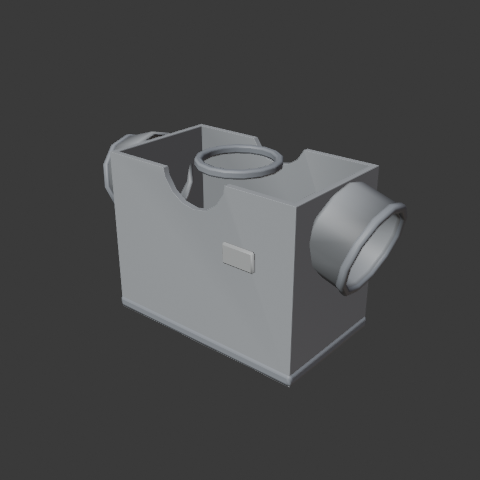
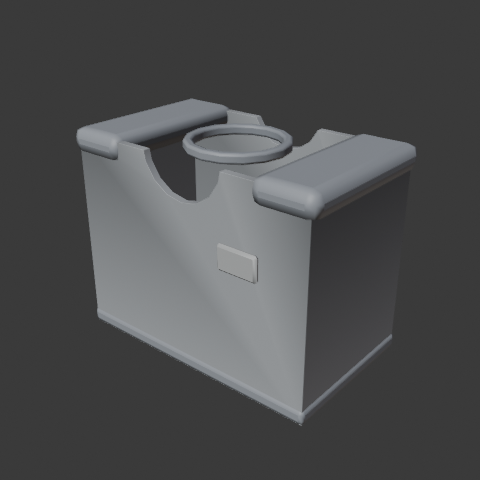
vault backup: 2026-10-28 07:11:22

diff --git a/Games/SpeedArc/blender/locker_kit.py b/Games/SpeedArc/blender/locker_kit.py
@@ -85,15 +85,9 @@ def tee():
         K.cutter_cyl(0.32, 0.7, (0, d / 2, h + 0.12), rot=(math.radians(90), 0, 0), verts=16),
     ])
     parts = [body]
-    # short sleeves: open tubes angled down off the shoulders
-    for s in (-1, 1):
-        sl = K.cyl("sleeve", 0.42, 0.42, (s * (w / 2 + 0.14), 0, h - 0.42), CLOTH, verts=12, bev=0.04,
-                   rot=(0, math.radians(90 + s * 18), 0), cutters=[
-                       K.cutter_cyl(0.36, 0.6, (s * (w / 2 + 0.14), 0, h - 0.42), rot=(0, math.radians(90 + s * 18), 0), verts=12)])
-        parts.append(sl)
-        parts.append(K.cyl("cuff", 0.44, 0.07, (s * (w / 2 + 0.33), 0, h - 0.48), SEAM, verts=12, bev=0.02,
-                           rot=(0, math.radians(90 + s * 18), 0), cutters=[
-                               K.cutter_cyl(0.37, 0.3, (s * (w / 2 + 0.33), 0, h - 0.48), rot=(0, math.radians(90 + s * 18), 0), verts=12)]))
+    # shoulder caps instead of sleeves (a rigid sleeve would stick out while the arms swing)
+    for sx in (-1, 1):
+        parts.append(K.box("cap", (0.5, d + 0.06, 0.2), (sx * (w / 2 - 0.2), 0, h - 0.06), SEAM, bev=0.08, seg=2))
     # crew collar ring
     parts.append(K.cyl("collar", 0.4, 0.08, (0, -0.02, h - 0.02), SEAM, verts=16, bev=0.02, cutters=[
         K.cutter_cyl(0.33, 0.3, (0, -0.02, h - 0.02), verts=16)]))
@@ -111,10 +105,8 @@ def zip_top():
         K.cutter_box((w - 0.12, d - 0.12, h + 1), (0, 0, h / 2)),
     ])
     parts = [body]
-    for s in (-1, 1):
-        parts.append(K.cyl("sleeve", 0.44, 0.46, (s * (w / 2 + 0.16), 0, h - 0.44), CLOTH, verts=16, bev=0.04,
-                           rot=(0, math.radians(90 + s * 14), 0), cutters=[
-                               K.cutter_cyl(0.38, 0.7, (s * (w / 2 + 0.16), 0, h - 0.44), rot=(0, math.radians(90 + s * 14), 0), verts=16)]))
+    for sx in (-1, 1):
+        parts.append(K.box("cap", (0.52, d + 0.06, 0.22), (sx * (w / 2 - 0.21), 0, h - 0.07), SEAM, bev=0.08, seg=2))
     # stand-up collar, a zip down the middle with a pull, two pocket seams, a ribbed hem
     parts.append(K.cyl("collar", 0.46, 0.26, (0, 0, h + 0.08), SEAM, verts=24, bev=0.03, r2=0.42, cutters=[
         K.cutter_cyl(0.38, 0.6, (0, 0, h + 0.08), verts=24)]))

diff --git a/SPEED ARC/Progress/2026-10-28 SPEED ARC Progress - 5 Store, passes, Starter Pack, Locker cosmetics.md b/SPEED ARC/Progress/2026-10-28 SPEED ARC Progress - 5 Store, passes, Starter Pack, Locker cosmetics.md
@@ -1,0 +1,81 @@
+---
+date: 2026-10-28
+tags: [speedarc, progress]
+prompt: "[[2026-10-28 SPEED ARC Prompt - 5 Store, passes, Starter Pack, Locker cosmetics]]"
+---
+# Progress 5 - Store, passes, Starter Pack, Locker cosmetics (M5)
+
+Back to [[00 SPEED ARC Home|SPEED ARC Home]]
+
+Done overnight without questions (owner asleep). **The passes and products still need IDs from you** (list below). Until then their cards say "SOON R$ 249" and can't be bought.
+
+## Built
+- **STORE** ([[SPEED ARC - Store and Monetization]]): gold STORE button in the left menu + a "+" on the coins pill. Tabs PASSES / COINS / BOOSTS. Owned passes say OWNED. Prices come from Roblox once the IDs are in (lesson: the game price must be Roblox's price).
+- **8 passes:** Auto Train (hero card), 2x Speed, 2x Coins, VIP, Extra Coach Slot, Extra Coach Slot 2, Trail Pack, Faster Rolls.
+  - **Auto Train:** an AUTO button on the training panel. The server taps 3 times a second with a steady x1.2 combo, on any station. Every 15 min a "STILL TRAINING?" card; no answer in 60 s = auto stops.
+  - **VIP:** +10% coins, VIP before your name (gold), VIP kit, VIP Gold trail, VIP name style, [VIP] in chat.
+  - **Trail Pack:** Lightning, Rainbow + 2 new trails: Comet and Neon Wave.
+  - **Faster Rolls:** no roll animation, ROLL x3 button (same odds, same coin price; Legendary+ still get their reveal).
+- **5 products:** Small / Medium / Large coins (20 min / 2 h / 6 h of coins at your league), 2x SPEED 15 min (stacks with the New Runner boost: you always get what you paid for), Starter Pack.
+- **Starter Pack:** once per player, only in the first 24 h after first joining. 1 h of coins + 2x SPEED 30 min + gold Canvas Runners (shoe skin) + STARTER title. Shown after a race WIN (results closed) and in the STORE, never as a timed popup.
+- **Offer card:** small card at the bottom, only at calm moments (not training, not racing, no window, never in the tutorial), at most one per 10 min. Two offers: Starter Pack (after a win) and Auto Train (after 10 min of tapping, once a session).
+- **ProcessReceipt:** one handler on the server. Records the receipt id with the grant, saves BEFORE telling Roblox "granted", never grants the same receipt twice, works after a rejoin.
+- **LOCKER** ([[SPEED ARC - Locker]]): new tabs KITS, HEAD, BIB, NAME, TITLE.
+  - 6 kit pieces (3 tops, 3 bottoms) + the VIP kit, 6 headwear, bib number 1-999 + 4 colours (unlock by league), 6 name styles (gradient name over your head), titles list.
+  - Prices are minutes of coins at your league (Customization note): kits 5-30 min, headwear 5-20, name styles 60-180.
+  - Worn items are welded on by the server (everyone sees them). Other players' worn items hide past 150 studs.
+
+## Tested (Studio, test switches instead of real Robux)
+- Every pass granted with `TestGrantPass`: 2x Speed -> training x2, 2x Coins + VIP -> coins x2.2, Auto Train -> +537 MPH in 5 s with no taps, VIP tag + name style over the head.
+- Products with `TestBuyProduct`: Small coins +1,200 (L1); **the same receipt id again = nothing** (no double grant); 2x SPEED 15 min = 15:00 boost; Starter Pack +3,600 coins + 30 min boost + title; a second Starter Pack is refused.
+- **Rejoin** (Studio save): Medium coins with receipt "persist-receipt-1" -> rejoin -> same receipt again = coins unchanged; the 2x Coins pass is still there.
+- Locker: bought + wore Gold Race Tee, Blue Race Shorts, Team Cap, Fire name style, bib 27; then Blue Singlet + Black Split Shorts + Headband + bib 88.
+- No script errors in the output.
+
+**Not tested:** real Robux purchases (needs the IDs, then a Studio test purchase works from the real prompt). Phone size (the Device Simulator wasn't on).
+
+## For you: passes and products to create in Creator Hub
+Please create these in **the group's** experience (Creator Hub > your experience > Monetization), with **exactly these prices**, then send me the IDs (I'll put them in `Config/Store.lua`):
+
+| Type | Name | Price | Description | Icon idea (cartoon, no people) |
+|---|---|---|---|---|
+| Pass | Auto Train | 249 R$ | Trains for you on any station. | a blue treadmill with a gold lightning bolt |
+| Pass | 2x Speed | 249 R$ | Double SPEED from every training tap. | a gold running shoe with "2x" |
+| Pass | 2x Coins | 149 R$ | Double coins from everything. | two gold coins with "2x" |
+| Pass | VIP | 299 R$ | +10% coins, VIP tag, VIP kit, VIP trail, VIP name style. | a gold crown on a black badge |
+| Pass | Extra Coach Slot | 99 R$ | Equip one more coach. | a whistle with "+1" |
+| Pass | Extra Coach Slot 2 | 149 R$ | Equip one more coach again. | a stopwatch with "+1" |
+| Pass | Trail Pack | 199 R$ | 4 trails: Lightning, Rainbow, Comet, Neon Wave. | 4 coloured speed streaks |
+| Pass | Faster Rolls | 99 R$ | Skip the roll animation, roll 3 at once. | a coach card with "x3" and speed lines |
+| Product | Small Coins | 25 R$ | 20 minutes of coins | a small coin pile |
+| Product | Medium Coins | 99 R$ | 2 hours of coins | a coin stack |
+| Product | Large Coins | 249 R$ | 6 hours of coins | a coin chest |
+| Product | 2x Speed 15 min | 25 R$ | Double training for 15 min of play | a stopwatch with "2x" |
+| Product | Starter Pack | 49 R$ | Coins, 2x Speed 30 min, gold Canvas Runners, STARTER title (once) | a gold gift box with a shoe |
+
+I did **not** make or upload any icons (you approve each image first, then upload to the group). In the game the cards use drawn badges, so nothing is waiting.
+
+## For you: .fbx files to import
+`Downloads\speed_arc_models\locker\` (script: `Games/SpeedArc/blender/locker_kit.py`, previews in `SPEED ARC/Screenshots/models/locker/`):
+- Kit_Singlet (1.7K tris), Kit_Tee (1.4K), Kit_ZipTop (1.6K), Kit_Shorts (1.1K), Kit_SplitShorts (1.2K), Kit_Tights (1.2K)
+- Head_Headband (1.5K), Head_Cap (0.8K), Head_Visor (0.9K), Head_Shades (0.4K), Head_BucketHat (1.3K), Head_Beanie (1.1K)
+Put them in `ServerStorage/Meshes` like the others. They are light grey on purpose: the game tints each one. Until they're in, simple part stand-ins show (blocky).
+
+## Changes / calls I made
+- The 2x SPEED product stacks on top of the New Runner / gift 2x (otherwise buying it in your first 15 min would do nothing).
+- The tee and zip top have shoulder caps, not sleeves: a rigid sleeve would stick out while the arms swing.
+- Boost badge moved next to the rank badge (on the MPH plate it covered "MPH").
+- Left menu is now LOCKER / COACHES / STORE / CODES + INVITE, starting under the coach chips.
+- New Studio test switches: `TestGrantPass`, `TestBuyProduct` ("Key" or "Key:receiptId"), `TestOffer`, `TestOpenWindow` = "Store" / "Store:COINS".
+- Analytics events: OfferShown_X, OfferTapped_X, OfferBought_X.
+
+## Screenshots
+![[2026-10-28 p5 store passes.jpg]]
+![[2026-10-28 p5 store coins.jpg]]
+![[2026-10-28 p5 store boosts.jpg]]
+![[2026-10-28 p5 starter offer and kit.jpg]]
+![[2026-10-28 p5 locker kits.jpg]]
+![[2026-10-28 p5 locker bib.jpg]]
+![[2026-10-28 p5 locker name.jpg]]
+![[2026-10-28 p5 wearing tee cap bib.jpg]]
+![[2026-10-28 p5 auto train vip name.jpg]]
